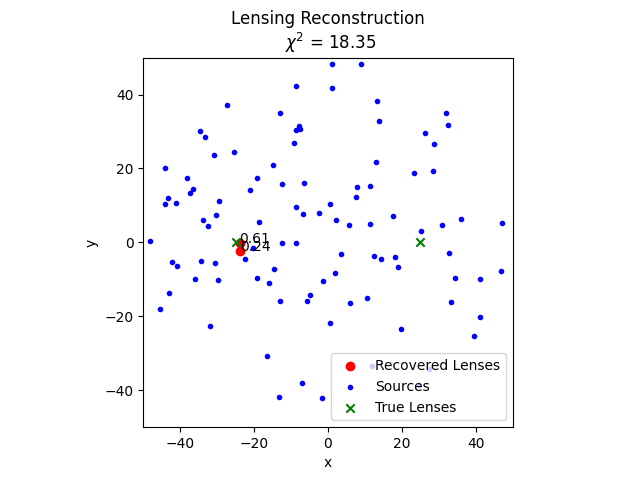
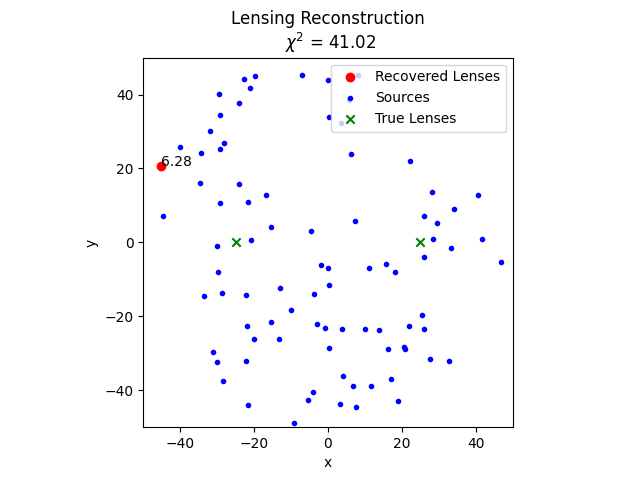
Simplification to code

diff --git a/pipeline.py b/pipeline.py
@@ -1,7 +1,6 @@
 import numpy as np
-from utils import chi2, generate_combinations, lens
+from utils import chi2, generate_combinations
 import scipy.optimize as opt
-from concurrent.futures import ProcessPoolExecutor
 
 # ------------------------------
 # Classes
@@ -35,12 +34,37 @@ class Source:
 
     
     def generate_initial_guess(self):
-        # Generate initial guesses for lens positions from source positions
+        # Generate initial guesses for possible lens positions based on the source ellipticity and flexion
         phi = np.arctan2(self.f2, self.f1)
         gamma = np.sqrt(self.e1**2 + self.e2**2)
         flexion = np.sqrt(self.f1**2 + self.f2**2)
         r = gamma / flexion
         return Lens(self.x + r * np.cos(phi), self.y + r * np.sin(phi), 2 * gamma * np.abs(r), 0)
+    
+
+    def apply_lensing_effects(self, lenses):
+        # Apply the lensing effects of a set of lenses to the sources
+
+        for i in range(len(lenses.x)):
+            dx = self.x - lenses.x[i]
+            dy = self.y - lenses.y[i]
+            r = np.sqrt(dx**2 + dy**2)
+
+            cosphi = dx/r
+            sinphi = dy/r
+            cos2phi = cosphi*cosphi-sinphi*sinphi
+            sin2phi = 2*cosphi*sinphi
+
+            f1 = np.sum(-dx*lenses.te[i]/(2*r*r*r))
+            f2 = np.sum(-dy*lenses.te[i]/(2*r*r*r))
+
+            e1 = np.sum(-lenses.te[i]/(2*r)*cos2phi)
+            e2 = np.sum(-lenses.te[i]/(2*r)*sin2phi)
+        
+            self.e1 += e1
+            self.e2 += e2
+            self.f1 += f1
+            self.f2 += f2
 
 
 class Lens:
@@ -123,6 +147,13 @@ class Lens:
         '''
 
 
+    def full_minimization(self, sources, sigf, sigs):
+        guess = np.concatenate((self.x, self.y, self.te))
+        params = [sources, sigf, sigs]
+        result = opt.minimize(chi2wrapper, guess, args=(params), method='Nelder-Mead', tol=1e-8)
+        self.x, self.y, self.te = result.x[:len(self.x)], result.x[len(self.x):2*len(self.x)], result.x[2*len(self.x):]
+
+
     def update_chi2_values(self, sources, sigf, sigs):
         # Calculate the raw chi^2 value for each lens, given a set of sources
         self.chi2 = np.zeros(len(self.x))
@@ -149,22 +180,15 @@ def createSources(lenses,ns=1,randompos=True,sigf=0.1,sigs=0.1,xmax=5):
     x = r*np.cos(phi)
     y = r*np.sin(phi)
 
-    #Apply the lens 
-    e1data = np.zeros(ns)
-    e2data = np.zeros(ns)
-    f1data = np.zeros(ns)
-    f2data = np.zeros(ns)
-
-    for i in range(ns):
-        e1data[i],e2data[i],f1data[i],f2data[i] = lens(x[i],y[i],lenses)
-    
-    #Add noise
-    e1data += np.random.normal(0,sigs,ns)
-    e2data += np.random.normal(0,sigs,ns)
-    f1data += np.random.normal(0,sigf,ns)
-    f2data += np.random.normal(0,sigf,ns)
+    #Add noise to the sources
+    e1data = np.random.normal(0,sigs,ns)
+    e2data = np.random.normal(0,sigs,ns)
+    f1data = np.random.normal(0,sigf,ns)
+    f2data = np.random.normal(0,sigf,ns)
 
     sources = Source(x, y, e1data, e2data, f1data, f2data)
+    # Apply the lensing effects of the lenses
+    sources.apply_lensing_effects(lenses)
     # Remove sources that we suspect are strongly lensed
     sources.filter_sources()
 
@@ -270,10 +294,7 @@ def fit_lensing_field(sources,sigs,sigf,xmax,lens_floor=1,flags = False):
     return lenses, chi2val
 
     # Perform a final local minimization on the remaining lenses
-    guess = np.concatenate((lenses.x, lenses.y, lenses.te))
-    params = [sources, sigf, sigs]
-    result = opt.minimize(chi2wrapper, guess, args=(params), method='Nelder-Mead', tol=1e-8)
-    lenses = Lens(result.x[0:len(lenses.x)], result.x[len(lenses.x):2*len(lenses.x)], result.x[2*len(lenses.x):], 0)
+    lenses.full_minimization(sources, sigf, sigs)
     lenses.update_chi2_values(sources, sigf, sigs)
     chi2val = get_chi2_value(sources, lenses)
     print_step_info(flags, "After final minimization:", sources, lenses, chi2val)

diff --git a/test_pipeline.py b/test_pipeline.py
@@ -110,11 +110,7 @@ def visualize_pipeline_steps(nlens, nsource, xmax):
     _plot_results(xmax, lenses, x, y, xl, yl, chi2val, 'Final Lens Positions', ax=axarr[1,1])
 
     # Step 6: Final minimization
-    params = [sources, sigs, sigf]
-    for i in range(len(lenses.x)):
-        guess = [lenses.x[i], lenses.y[i], lenses.te[i]]
-        result = opt.minimize(pipeline.chi2wrapper, guess, args=(params), method='Nelder-Mead', tol=1e-8)
-        lenses.x[i], lenses.y[i], lenses.te[i] = result.x
+    lenses.full_minimization(sources, sigs, sigf)
     lenses.update_chi2_values(sources, sigs, sigf)
     chi2val = pipeline.get_chi2_value(sources, lenses)
     _plot_results(xmax, lenses, x, y, xl, yl, chi2val, 'Final Lens Positions', ax=axarr[1,2])
@@ -322,8 +318,8 @@ def test_iterative_elimination():
 
 
 if __name__ == '__main__':
-    run_simple_test(2, 100, 50, flags=False)
-    # visualize_pipeline_steps(2, 100, 50)
+    # run_simple_test(2, 10, 10, flags=False)
+    visualize_pipeline_steps(2, 100, 50)
 
     '''
     Nsource = 100

diff --git a/utils.py b/utils.py
@@ -118,7 +118,7 @@ def chi2(sources, lenses, sigf, sigs, fwgt=1.0, swgt=1.0):
     try:
         for eR in lenses.te:
             total_penalty += eR_penalty_function(eR)
-    except TypeError:
+    except TypeError: # If lenses.te is not an array
         total_penalty += eR_penalty_function(lenses.te)
 
     chi2val += total_penalty
